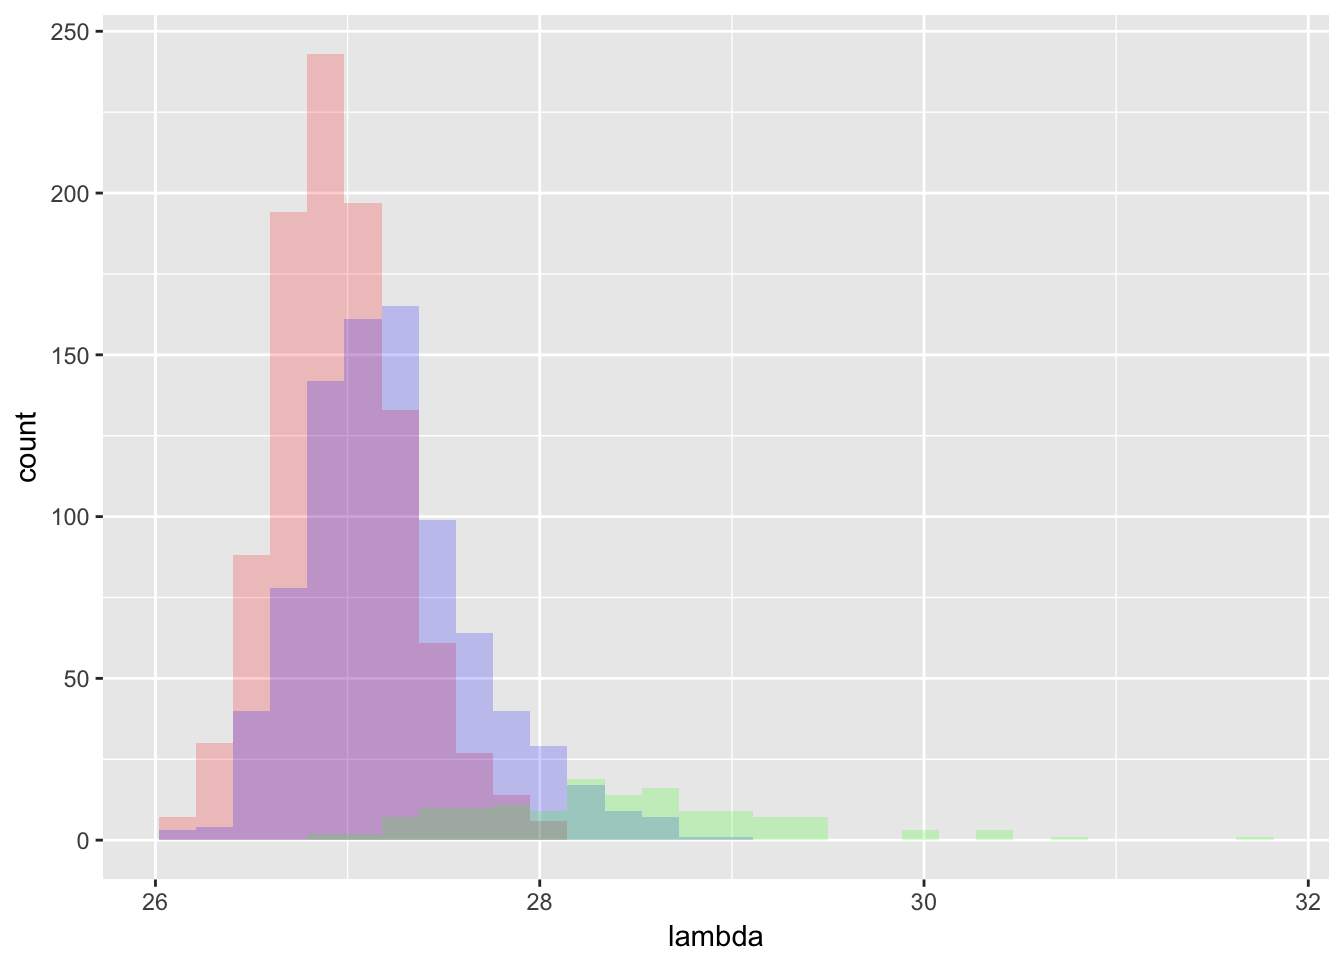
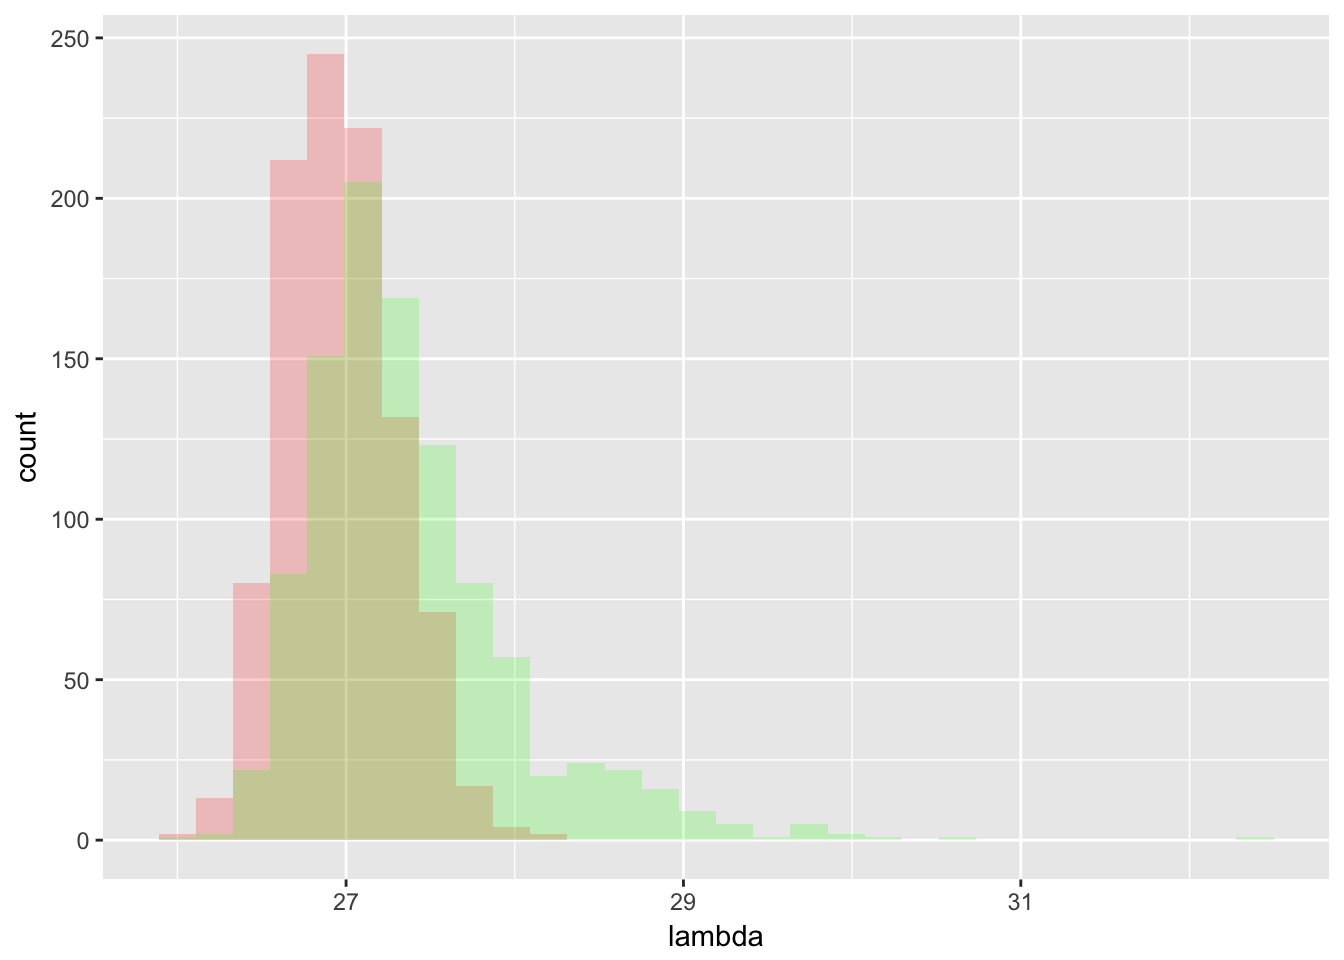
Build site.

diff --git a/docs/NULLcheck.html b/docs/NULLcheck.html
@@ -312,10 +312,10 @@ div.tocify {
 shared across the workflowr files. -->
 <!-- Update knitr chunk options -->
 <!-- Insert the date the file was last updated -->
-<p><strong>Last updated:</strong> 2017-09-16</p>
+<p><strong>Last updated:</strong> 2017-09-17</p>
 <!-- Insert the code version (Git commit SHA1) if Git repository exists and R
  package git2r is installed -->
-<p><strong>Code version:</strong> 8482f70</p>
+<p><strong>Code version:</strong> 80ea700</p>
 <!-- Add your analysis here -->
 <pre class="r"><code>library(flashr2)
 library(MASS)</code></pre>
@@ -323,24 +323,27 @@ library(MASS)</code></pre>
 
 set.seed(99)
 T = 1000
-lambda_3 = rep(NA,T)
-flash_rank_3= rep(1,T)
+lambda_0 = rep(NA,T)
+flash_rank_0= rep(1,T)
+flash2_rank_0= rep(1,T)
 for(t in 1:T){
   P = 300
   N = 100
   Sigma_0 = diag(rep(1,P))
   X = mvrnorm(n = N,mu = rep(0,P), Sigma = Sigma_0)
-  lambda_3[t] =  svd(X)$d[1]
+  lambda_0[t] =  svd(X)$d[1]
   data = set_flash_data(X)
   g1= flash_r1(data,verbose=F)
-  if(sum(g1$EL) ==0 )  {flash_rank_3[t] = 0}
+  g2 = flashr::flash(X)
+  if(sum(g1$EL) ==0 )  {flash2_rank_0[t] = 0}
+  if(sum(g2$l) ==0 )  {flash_rank_0[t] = 0}
 }
-
 
 set.seed(99)
 T = 1000
-lambda_4 = rep(NA,T)
-flash_rank_4= rep(1,T)
+lambda_1 = rep(NA,T)
+flash_rank_1= rep(1,T)
+flash2_rank_1= rep(1,T)
 for(t in 1:T){
   P = 300
   N = 100
@@ -350,37 +353,90 @@ for(t in 1:T){
   nu[index_nu] = 0
   Sigma_1 = Sigma_0 + nu %*% t(nu)
   X = mvrnorm(n = N,mu = rep(0,P), Sigma = Sigma_1)
-  lambda_4[t] =  svd(X)$d[1]
+  lambda_1[t] =  svd(X)$d[1]
   data = set_flash_data(X)
   g1= flash_r1(data,verbose=F)
-  if(sum(g1$EL) ==0 )  {flash_rank_4[t] = 0}
+  g2 = flashr::flash(X)
+  if(sum(g1$EL) ==0 )  {flash2_rank_1[t] = 0}
+  if(sum(g2$l) ==0 )  {flash_rank_1[t] = 0}
 }
 
 
-lambda_4_0 = lambda_4[which(flash_rank_4 ==0)]
-lambda_4_1 = lambda_4[which(flash_rank_4 ==1)]
+lambda_1_0_0 = lambda_0[which(flash_rank_0 ==0)]
+lambda_1_0_1 = lambda_0[which(flash_rank_0 ==1)]
+lambda_2_0_0 = lambda_0[which(flash2_rank_0 ==0)]
+lambda_2_0_1 = lambda_0[which(flash2_rank_0 ==1)]
 
-library(ggplot2)
-dat = data.frame(lambda = c(lambda_3,lambda_4_0,lambda_4_1), name = c(rep(&quot;null&quot;,length(lambda_3)), rep(&quot;alt 0&quot;, length(lambda_4_0)),rep(&quot;alt 1&quot;, length(lambda_4_1)) ))
+lambda_1_1_0 = lambda_1[which(flash_rank_1 ==0)]
+lambda_1_1_1 = lambda_1[which(flash_rank_1 ==1)]
+lambda_2_1_0 = lambda_1[which(flash2_rank_1 ==0)]
+lambda_2_1_1 = lambda_1[which(flash2_rank_1 ==1)]</code></pre>
+<div id="model" class="section level2">
+<h2>model</h2>
+<p>In this case the data sets are: <span class="math display">\[H_0: X \sim N(0, \Sigma_0)\]</span> <span class="math display">\[H_1: X \sim N(0,\Sigma_1)\]</span> where <span class="math inline">\(\Sigma_0 = I\)</span> and <span class="math inline">\(\Sigma_1 = I + \nu \nu^T\)</span></p>
+<pre class="r"><code>library(ggplot2)
+dat = data.frame(lambda = c(lambda_0,lambda_1), name = c(rep(&quot;null&quot;,length(lambda_0)), rep(&quot;alt&quot;, length(lambda_1)) ))
 ggplot(dat,aes(x=lambda)) +
   geom_histogram(data=subset(dat,name == &#39;null&#39;),fill = &quot;red&quot;, alpha = 0.2) +
-  # geom_histogram(data=subset(dat,name == &#39;alt 0&#39;),fill = &quot;blue&quot;, alpha = 0.2) +
-  geom_histogram(data=subset(dat,name %in% c(&#39;alt 1&#39;,&#39;alt 0&#39;)),fill = &quot;green&quot;, alpha = 0.2)</code></pre>
+  geom_histogram(data=subset(dat,name == &#39;alt&#39;),fill = &quot;green&quot;, alpha = 0.2) </code></pre>
 <pre><code>`stat_bin()` using `bins = 30`. Pick better value with `binwidth`.
 `stat_bin()` using `bins = 30`. Pick better value with `binwidth`.</code></pre>
-<p><img src="figure/NULLcheck.Rmd/unnamed-chunk-2-1.png" width="672" style="display: block; margin: auto;" /></p>
-<p>-red: null -green: alternative</p>
+<p><img src="figure/NULLcheck.Rmd/unnamed-chunk-3-1.png" width="672" style="display: block; margin: auto;" /></p>
+<ul>
+<li>red: null</li>
+<li>green: alternative</li>
+</ul>
+<div id="flashr" class="section level3">
+<h3>flashr</h3>
 <pre class="r"><code>library(ggplot2)
-dat = data.frame(lambda = c(lambda_3,lambda_4_0,lambda_4_1), name = c(rep(&quot;null&quot;,length(lambda_3)), rep(&quot;alt 0&quot;, length(lambda_4_0)),rep(&quot;alt 1&quot;, length(lambda_4_1)) ))
+dat = data.frame(lambda = c(lambda_1_0_0,lambda_1_0_1,lambda_1_1_0,lambda_1_1_1), 
+                 name = c(rep(&quot;null 0&quot;,length(lambda_1_0_0)),
+                          rep(&quot;null 1&quot;,length(lambda_1_0_1)),
+                          rep(&quot;alt 0&quot;,length(lambda_1_1_0)),
+                          rep(&quot;alt 1&quot;,length(lambda_1_1_1))))
 ggplot(dat,aes(x=lambda)) +
-  geom_histogram(data=subset(dat,name == &#39;null&#39;),fill = &quot;red&quot;, alpha = 0.2) +
+  geom_histogram(data=subset(dat,name == &#39;null 0&#39;),fill = &quot;red&quot;, alpha = 0.2) +
+  geom_histogram(data=subset(dat,name == &#39;null 1&#39;),fill = &quot;black&quot;, alpha = 0.2) +
   geom_histogram(data=subset(dat,name == &#39;alt 0&#39;),fill = &quot;blue&quot;, alpha = 0.2) +
   geom_histogram(data=subset(dat,name == &#39;alt 1&#39;),fill = &quot;green&quot;, alpha = 0.2)</code></pre>
 <pre><code>`stat_bin()` using `bins = 30`. Pick better value with `binwidth`.
 `stat_bin()` using `bins = 30`. Pick better value with `binwidth`.
+`stat_bin()` using `bins = 30`. Pick better value with `binwidth`.
 `stat_bin()` using `bins = 30`. Pick better value with `binwidth`.</code></pre>
-<p><img src="figure/NULLcheck.Rmd/unnamed-chunk-3-1.png" width="672" style="display: block; margin: auto;" /></p>
-<p>-red: null -green: alternative estimated as rank 1 -bule: alternative estimated as rank 0</p>
+<p><img src="figure/NULLcheck.Rmd/unnamed-chunk-4-1.png" width="672" style="display: block; margin: auto;" /></p>
+<ul>
+<li>red: null as rank 0</li>
+<li>black: null as rank 1</li>
+<li>blue: alternative as 0</li>
+<li>green: alternative as 1</li>
+</ul>
+</div>
+<div id="flashr2" class="section level3">
+<h3>flashr2</h3>
+<pre class="r"><code>library(ggplot2)
+dat2 = data.frame(lambda = c(lambda_2_0_0,lambda_2_0_1,lambda_2_1_0,lambda_2_1_1), 
+                 name = c(rep(&quot;null 0&quot;,length(lambda_2_0_0)),
+                          rep(&quot;null 1&quot;,length(lambda_2_0_1)),
+                          rep(&quot;alt 0&quot;,length(lambda_2_1_0)),
+                          rep(&quot;alt 1&quot;,length(lambda_2_1_1))))
+ggplot(dat,aes(x=lambda)) +
+  geom_histogram(data=subset(dat2,name == &#39;null 0&#39;),fill = &quot;red&quot;, alpha = 0.2) +
+  geom_histogram(data=subset(dat2,name == &#39;null 1&#39;),fill = &quot;black&quot;, alpha = 0.2) +
+  geom_histogram(data=subset(dat2,name == &#39;alt 0&#39;),fill = &quot;blue&quot;, alpha = 0.2) +
+  geom_histogram(data=subset(dat2,name == &#39;alt 1&#39;),fill = &quot;green&quot;, alpha = 0.2)</code></pre>
+<pre><code>`stat_bin()` using `bins = 30`. Pick better value with `binwidth`.
+`stat_bin()` using `bins = 30`. Pick better value with `binwidth`.
+`stat_bin()` using `bins = 30`. Pick better value with `binwidth`.
+`stat_bin()` using `bins = 30`. Pick better value with `binwidth`.</code></pre>
+<p><img src="figure/NULLcheck.Rmd/unnamed-chunk-5-1.png" width="672" style="display: block; margin: auto;" /></p>
+<ul>
+<li>red: null as rank 0</li>
+<li>black: null as rank 1</li>
+<li>blue: alternative as 0</li>
+<li>green: alternative as 1</li>
+</ul>
+</div>
+</div>
 <div id="session-information" class="section level2">
 <h2>Session information</h2>
 <!-- Insert the session information into the document -->
@@ -396,24 +452,23 @@ attached base packages:
 [1] stats     graphics  grDevices utils     datasets  methods   base     
 
 other attached packages:
- [1] ggplot2_2.2.1   MASS_7.3-47     workflowr_0.4.0 rmarkdown_1.6  
- [5] softImpute_1.4  Matrix_1.2-11   PMA_1.0.9       impute_1.48.0  
- [9] plyr_1.8.4      flashr2_0.1-2  
+[1] ggplot2_2.2.1   MASS_7.3-47     flashr2_0.1-2   workflowr_0.4.0
+[5] rmarkdown_1.6  
 
 loaded via a namespace (and not attached):
- [1] Rcpp_0.12.12      git2r_0.19.0      iterators_1.0.8  
- [4] tools_3.3.0       digest_0.6.12     evaluate_0.10.1  
- [7] tibble_1.3.3      gtable_0.2.0      lattice_0.20-35  
-[10] rlang_0.1.2       foreach_1.4.3     rstudioapi_0.6   
-[13] yaml_2.1.14       parallel_3.3.0    stringr_1.2.0    
-[16] knitr_1.17        REBayes_0.85      rprojroot_1.2    
-[19] grid_3.3.0        irlba_2.2.1       flashr_0.1.1     
-[22] ashr_2.1-25       magrittr_1.5      scales_0.4.1     
-[25] backports_1.1.0   codetools_0.2-15  htmltools_0.3.6  
-[28] assertthat_0.2.0  colorspace_1.3-2  labeling_0.3     
-[31] stringi_1.1.5     Rmosek_7.1.2      lazyeval_0.2.0   
-[34] pscl_1.4.9        doParallel_1.0.10 munsell_0.4.3    
-[37] truncnorm_1.0-7   SQUAREM_2016.8-2 </code></pre>
+ [1] Rcpp_0.12.12      git2r_0.19.0      plyr_1.8.4       
+ [4] iterators_1.0.8   tools_3.3.0       digest_0.6.12    
+ [7] evaluate_0.10.1   tibble_1.3.3      gtable_0.2.0     
+[10] lattice_0.20-35   rlang_0.1.2       Matrix_1.2-11    
+[13] foreach_1.4.3     yaml_2.1.14       parallel_3.3.0   
+[16] stringr_1.2.0     knitr_1.17        REBayes_0.85     
+[19] rprojroot_1.2     grid_3.3.0        irlba_2.2.1      
+[22] flashr_0.1.1      ashr_2.1-25       magrittr_1.5     
+[25] backports_1.1.0   scales_0.4.1      codetools_0.2-15 
+[28] htmltools_0.3.6   assertthat_0.2.0  colorspace_1.3-2 
+[31] labeling_0.3      stringi_1.1.5     Rmosek_7.1.2     
+[34] lazyeval_0.2.0    munsell_0.4.3     doParallel_1.0.10
+[37] pscl_1.4.9        truncnorm_1.0-7   SQUAREM_2016.8-2 </code></pre>
 </div>
 
 <hr>
